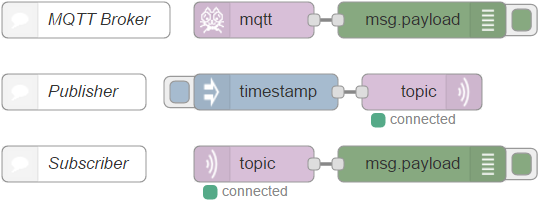
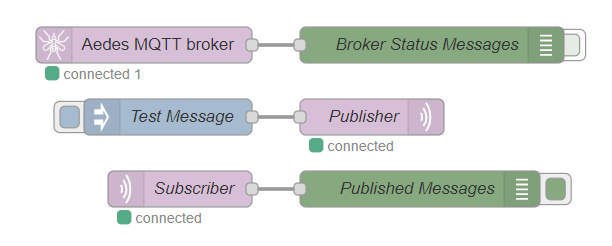
Feature (#5)
* Update node logs

* Set username and password as credentials

* Add username and password credentials

* Update usage of credentials

* Fix credentials

* Make credentials optional

* Add status to node

* Replace flow picture

* Change picture links

* Version 0.2.0

diff --git a/aedes.js b/aedes.js
@@ -23,6 +23,10 @@ module.exports = function (RED) {
 
   function AedesBrokerNode(config) {
     RED.nodes.createNode(this, config);
+    if (this.credentials) {
+      this.username = this.credentials.username;
+      this.password = this.credentials.password;
+    }
     this.mqtt_port = parseInt(config.mqtt_port);
     this.mqtt_ws_port = parseInt(config.mqtt_ws_port);
     var node = this;
@@ -59,6 +63,7 @@ module.exports = function (RED) {
         wss = ws.createServer({
           port: config.mqtt_ws_port
         }, broker.handle);
+        node.log('Binding aedes mqtt server on ws port: ' + config.mqtt_ws_port);
       });
       testServer.listen(config.mqtt_ws_port, function () {
         node.log('Checking ws port: ' + config.mqtt_ws_port);
@@ -69,18 +74,23 @@ module.exports = function (RED) {
     server.once('error', function (err) {
       if (err.code === 'EADDRINUSE') {
         node.error('Error: Port ' + config.mqtt_port + ' is already in use');
+        node.status({fill:"red",shape:"ring",text:"node-red:common.status.disconnected"});
+      } else {
+        node.error('Error: Port ' + config.mqtt_port + ' '  + err.toString());
+        node.status({fill:"red",shape:"ring",text:"node-red:common.status.disconnected"});
       }
     });
 
     if (this.mqtt_port) {
       server.listen(this.mqtt_port, function () {
         node.log('Binding aedes mqtt server on port: ' + config.mqtt_port);
+        node.status({fill:"green",shape:"dot",text:"node-red:common.status.connected"});
       });
     }
 
-    if (config.username && config.password) {
+    if (this.credentials && this.username && this.password) {
       var authenticate = function (client, username, password, callback) {
-        var authorized = (username == config.username && password == config.password);
+        var authorized = (username == node.username && password == node.password);
         if (authorized) client.user = username;
         callback(null, authorized);
       };
@@ -105,6 +115,7 @@ module.exports = function (RED) {
           client: client
         }
       };
+      node.status({fill:"green",shape:"dot",text:RED._("aedes-mqtt-broker.status.connected", {count: broker.connectedClients} )});
       node.send(msg);
     });
 
@@ -116,6 +127,7 @@ module.exports = function (RED) {
         }
       };
       node.send(msg);
+      node.status({fill:"green",shape:"dot",text:RED._("aedes-mqtt-broker.status.connected", {count: broker.connectedClients} )});
     });
 
     broker.on('clientError', function (client, err) {
@@ -127,6 +139,7 @@ module.exports = function (RED) {
         }
       };
       node.send(msg);
+      node.status({fill:"green",shape:"dot",text:RED._("aedes-mqtt-broker.status.connected", {count: broker.connectedClients} )});
     });
 
     broker.on('connectionError', function (client, err) {
@@ -138,6 +151,7 @@ module.exports = function (RED) {
         }
       };
       node.send(msg);
+      node.status({fill:"green",shape:"dot",text:RED._("aedes-mqtt-broker.status.connected", {count: broker.connectedClients} )});
     });
 
     broker.on('keepaliveTimeout', function (client) {
@@ -148,6 +162,7 @@ module.exports = function (RED) {
         }
       };
       node.send(msg);
+      node.status({fill:"green",shape:"dot",text:RED._("aedes-mqtt-broker.status.connected", {count: broker.connectedClients} )});
     });
 
     broker.on('subscribe', function (subscription, client) {
@@ -188,17 +203,18 @@ module.exports = function (RED) {
     */
 
     broker.on('closed', function () {
-      node.log('Closed event');
+      node.debug('Closed event');
     });
 
     this.on('close', function (done) {
-      node.log('Unbinding aedes mqtt server from port: ' + this.mqtt_port);
       broker.close(function () {
+        node.log('Unbinding aedes mqtt server from port: ' + config.mqtt_port);
         server.close(function () {
-          node.log('after server.close(): ');
+          node.debug('after server.close(): ');
           if (wss) {
+            node.log('Unbinding aedes mqtt server from ws port: ' + config.mqtt_ws_port);
             wss.close(function () {
-              node.log('after wss.close(): ');
+              node.debug('after wss.close(): ');
               done();
             });
           } else {
@@ -209,5 +225,10 @@ module.exports = function (RED) {
     });
   }
 
-  RED.nodes.registerType('aedes broker', AedesBrokerNode);
+  RED.nodes.registerType('aedes broker', AedesBrokerNode, {
+     credentials: {
+         username: {type:"text"},
+         password: {type:"password"}
+     }
+  });
 };

diff --git a/test/aedes_ws_spec.js b/test/aedes_ws_spec.js
@@ -1,7 +1,7 @@
-const should = require("should");
 const helper = require('node-red-node-test-helper');
 const aedesNode = require('../aedes.js');
 const mqttNode = require('../node_modules/node-red/node_modules/@node-red/nodes/core/network/10-mqtt.js');
+const mqtt = require('mqtt/mqtt.js');
 
 helper.init(require.resolve('node-red'));
 
@@ -42,5 +42,66 @@ describe('MQTT Broker Node', function () {
                 n11.should.have.property('name', 'Aedes 1884');
                 done();
             });
+    });
+
+    it('a subscriber should receive a message from an external publisher', function (done) {
+        this.timeout(10000); // have to wait for the inject with delay of 10 seconds
+        var flow = [
+            {
+                id: 'n1',
+                type: 'aedes broker',
+                mqtt_port: '1883',
+                mqtt_ws_port: '8080',
+                name: 'Aedes 1883',
+                wires: [
+                    ['n2']
+                ]
+            },
+            {
+                id: 'n2',
+                type: 'helper'
+            }, {
+                id: 'n4',
+                type: 'mqtt in',
+                name: 'Aedes In 1883',
+                topic: 'test1883',
+                broker: 'b1',
+                wires: [
+                    ['n5']
+                ]
+            }, {
+                id: 'n5',
+                type: 'helper'
+            }, {
+                id: 'b1',
+                type: 'mqtt-broker',
+                name: 'Broker',
+                broker: 'localhost',
+                port: '1883'
+            }
+        ];
+        var client = mqtt.connect('ws://localhost:8080', { clientId: 'client', resubscribe: false, reconnectPeriod: -1 });
+        client.on('error', function (err) {
+            console.log('Error: ', err.toString());
+        });
+        client.on('connect', function () {
+            console.log('External client connected');
+        });
+        helper.load([aedesNode, mqttNode], flow, function () {
+            var n2 = helper.getNode('n2');
+            var n5 = helper.getNode('n5');
+            n2.on('input', function(msg) {
+                console.log('Broker received message with topic ' + msg.topic);
+                if (msg.topic === 'subscribe') {
+                    console.log('Client subscribed');
+                    client.publish('test1883', 'test')
+                }
+            });
+            n5.on('input', function (msg) {
+                console.log(msg);
+                msg.should.have.property('topic', 'test1883');
+                done();
+            });
+        });
     });
 });

diff --git a/aedes.html b/aedes.html
@@ -49,12 +49,14 @@
     RED.nodes.registerType('aedes broker',{
         category: 'network',
         defaults: {
-        	mqtt_port: {value:1883, validate:RED.validators.number()},
-        	mqtt_ws_port: {value:null,required:false,validate:RED.validators.number(true)},
+            mqtt_port: {value:1883, validate:RED.validators.number()},
+            mqtt_ws_port: {value:null,required:false,validate:RED.validators.number(true)},
             name: {value:""},
-            username: {value:"", required:false},
-            password: {value:"", required:false},
             dburl: {value:"", required:false}
+        },
+        credentials: {
+            username: {type:"text"},
+            password: {type: "password"}
         },
         color:"#d8bfd8",
         inputs:0,

diff --git a/README.md b/README.md
@@ -15,11 +15,11 @@ You can use MQTT-in and MQTT-out nodes without an external MQTT broker like Mosq
 ## Background
 This node was created because the original MQTT broker [node-red-contrib-mqtt-broker](https://github.com/zuhito/node-red-contrib-mqtt-broker) uses [mosca](https://github.com/moscajs/mosca) which is no longer maintained.
 ## Flows
-Once you just put this node on Node-RED and hit deploy button, MQTT Broker will run on your Node-RED.
+Just put this node on Node-RED and hit the deploy button. The MQTT Broker will run on your Node-RED instance.
 
-![flows](https://raw.githubusercontent.com/zuhito/node-red-contrib-mqtt-broker/master/flows.png)
+![flows](https://raw.githubusercontent.com/martin-doyle/node-red-contrib-aedes/master/flows.png)
 
 You can set "localhost" in MQTT-in and MQTT-out properties as follows.
 
-![setting](https://raw.githubusercontent.com/zuhito/node-red-contrib-mqtt-broker/master/setting.png)
+![setting](https://raw.githubusercontent.com/martin-doyle/node-red-contrib-aedes/master/setting.png)
 

diff --git a/CHANGELOG.md b/CHANGELOG.md
@@ -1,5 +1,20 @@
 # node-red-contrib-aeades Changelog
 
+## Feb 20, 2020, Version 0.2.0
+
+### Notable changes
+ - Add status to node
+ 
+### Fixes:
+ - Move username and password to credentials
+
+## Feb 17, 2020, Version 0.1.1
+
+### Fixes:
+
+ - Fix another "port already in use" error
+
+
 ## Feb 16, 2020, Version 0.1.0
 
 ### Notable changes
